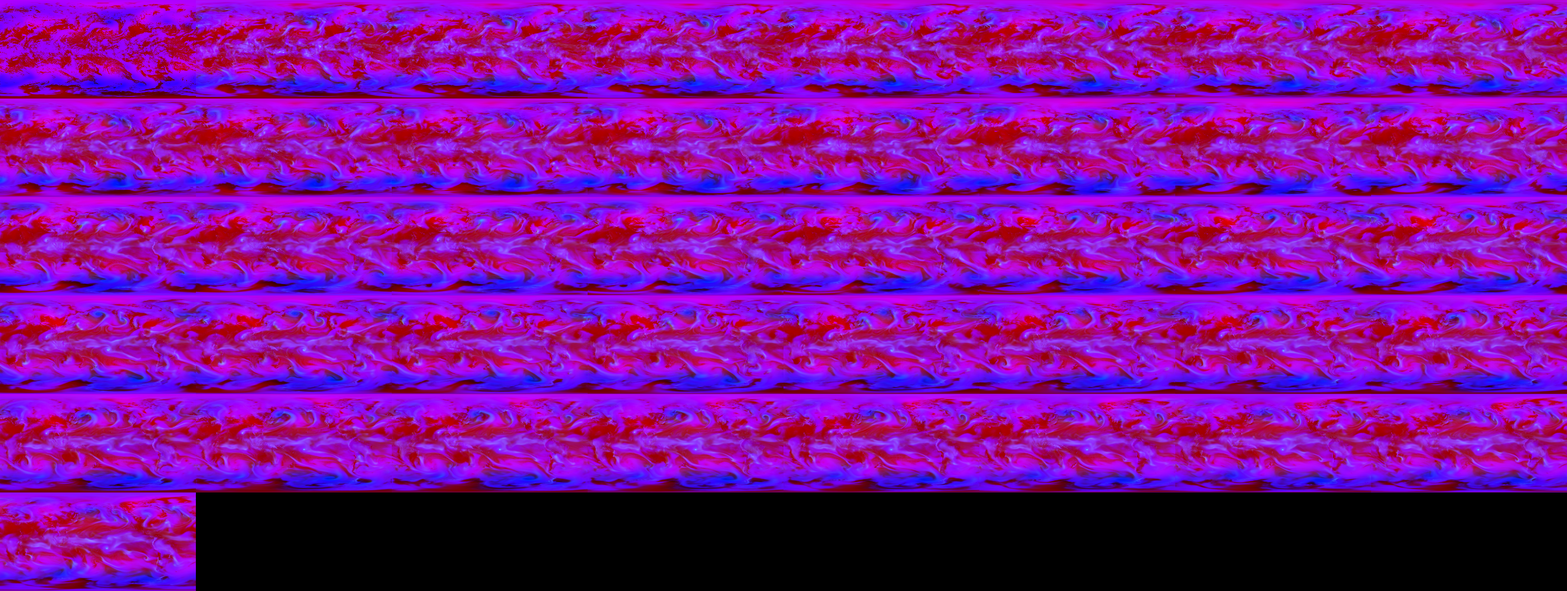
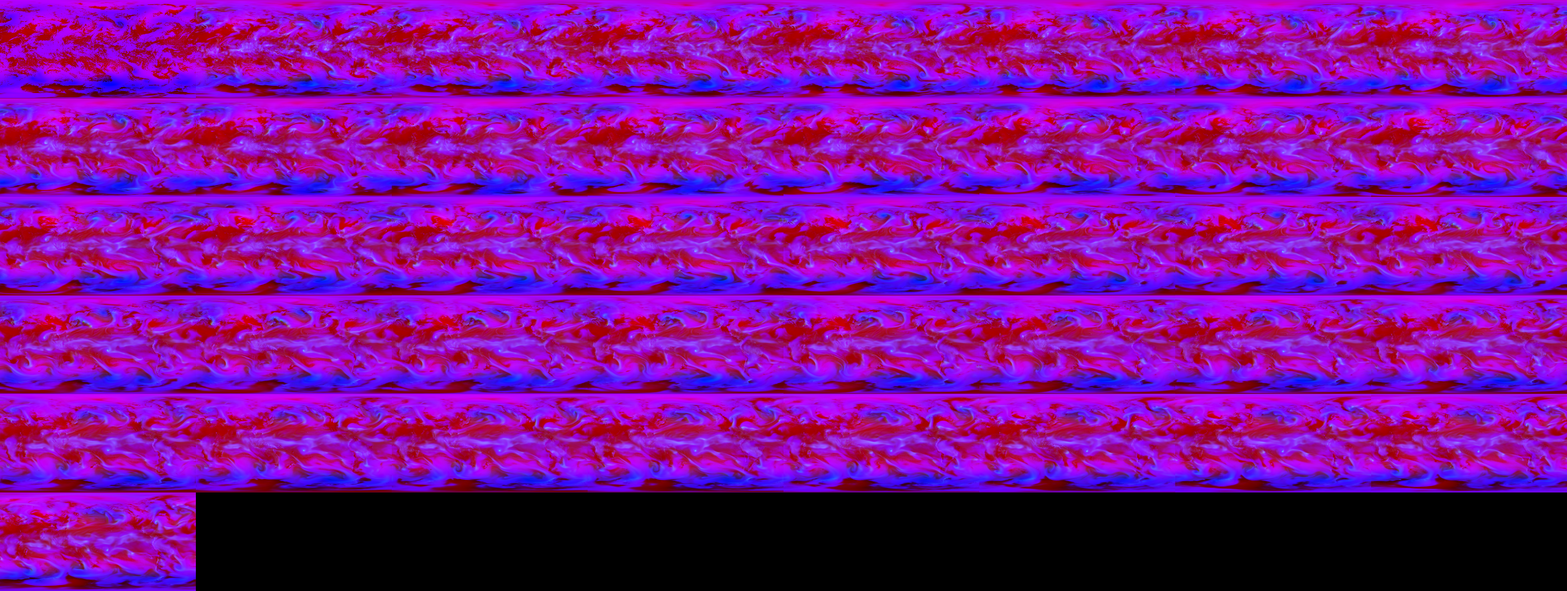
FIAB Globe: AIFS Single 13 Nov 2026 00 UTC
Claude-Session: https://claude.ai/code/session_01Mm7KmM24xqhNk2YDRzXdRt

diff --git a/FIAB/Globe/index.html b/FIAB/Globe/index.html
@@ -97,7 +97,7 @@ body.bare #time{left:auto;right:16px;max-width:none;width:auto}
   <div id="ends"><span id="t0"></span><span>hourly frames interpolated from 6-hourly model output</span><span id="t1"></span></div>
 </div>
 
-<script type="module" src="globe.js?v=202611120632"></script>
+<script type="module" src="globe.js?v=202611130633"></script>
 <script src="../brand.js?v=202611060913" data-pos="tc" defer></script>
 </body>
 </html>
